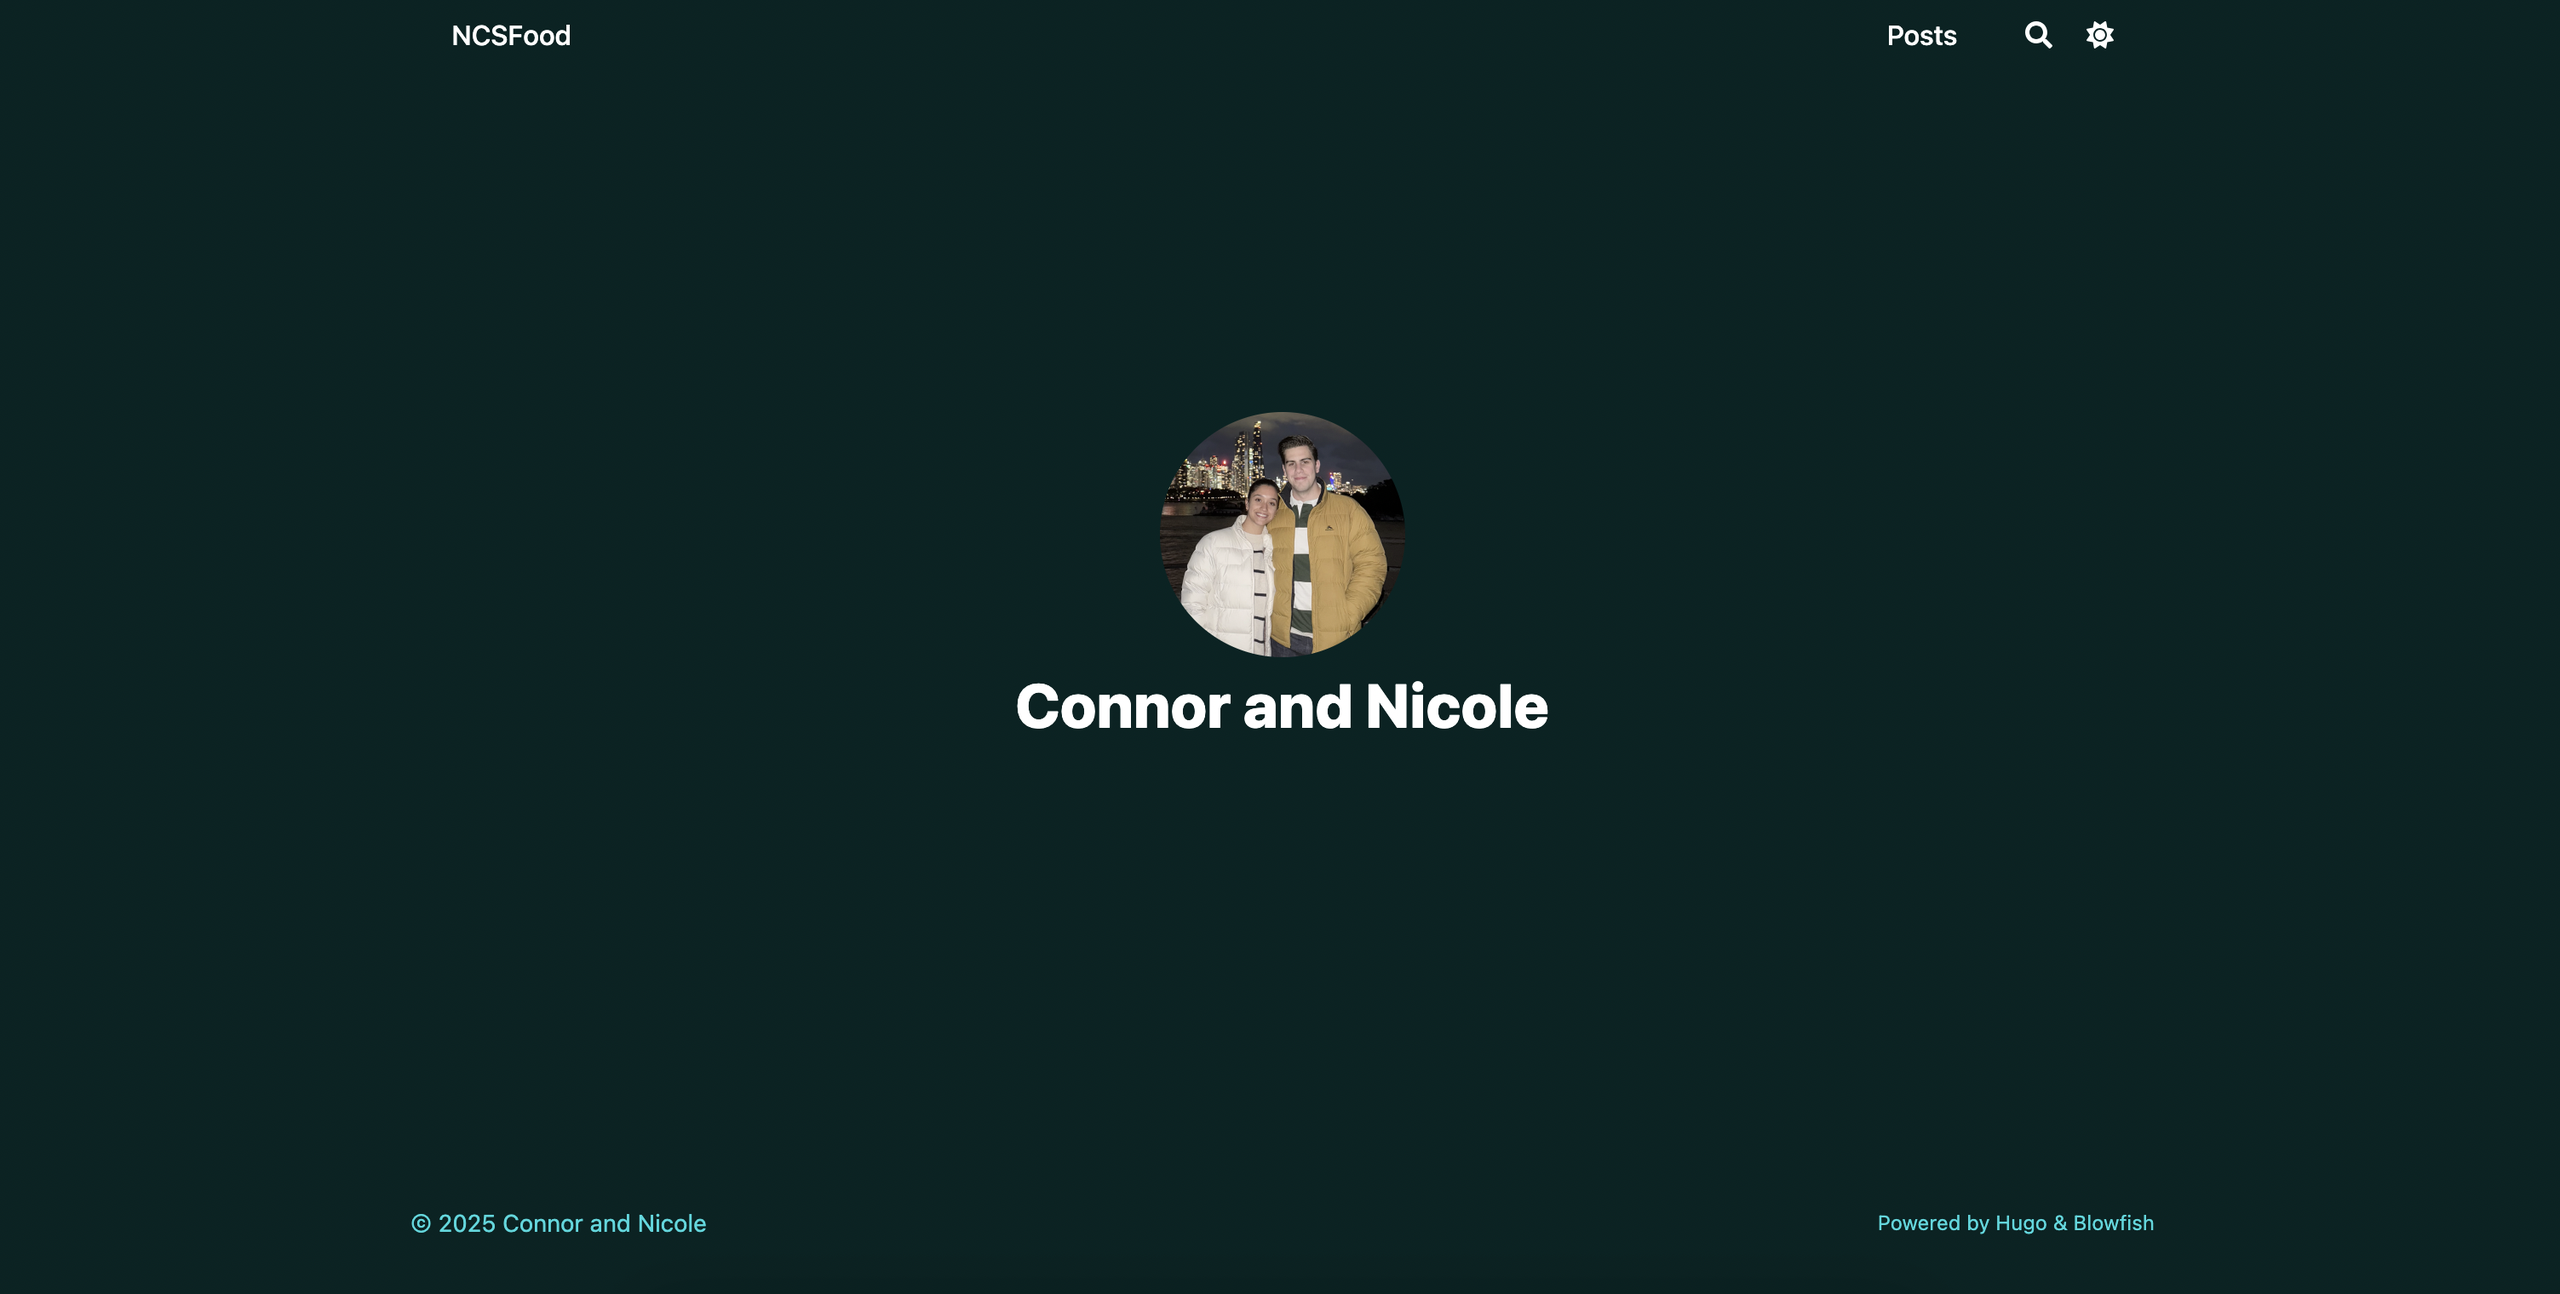
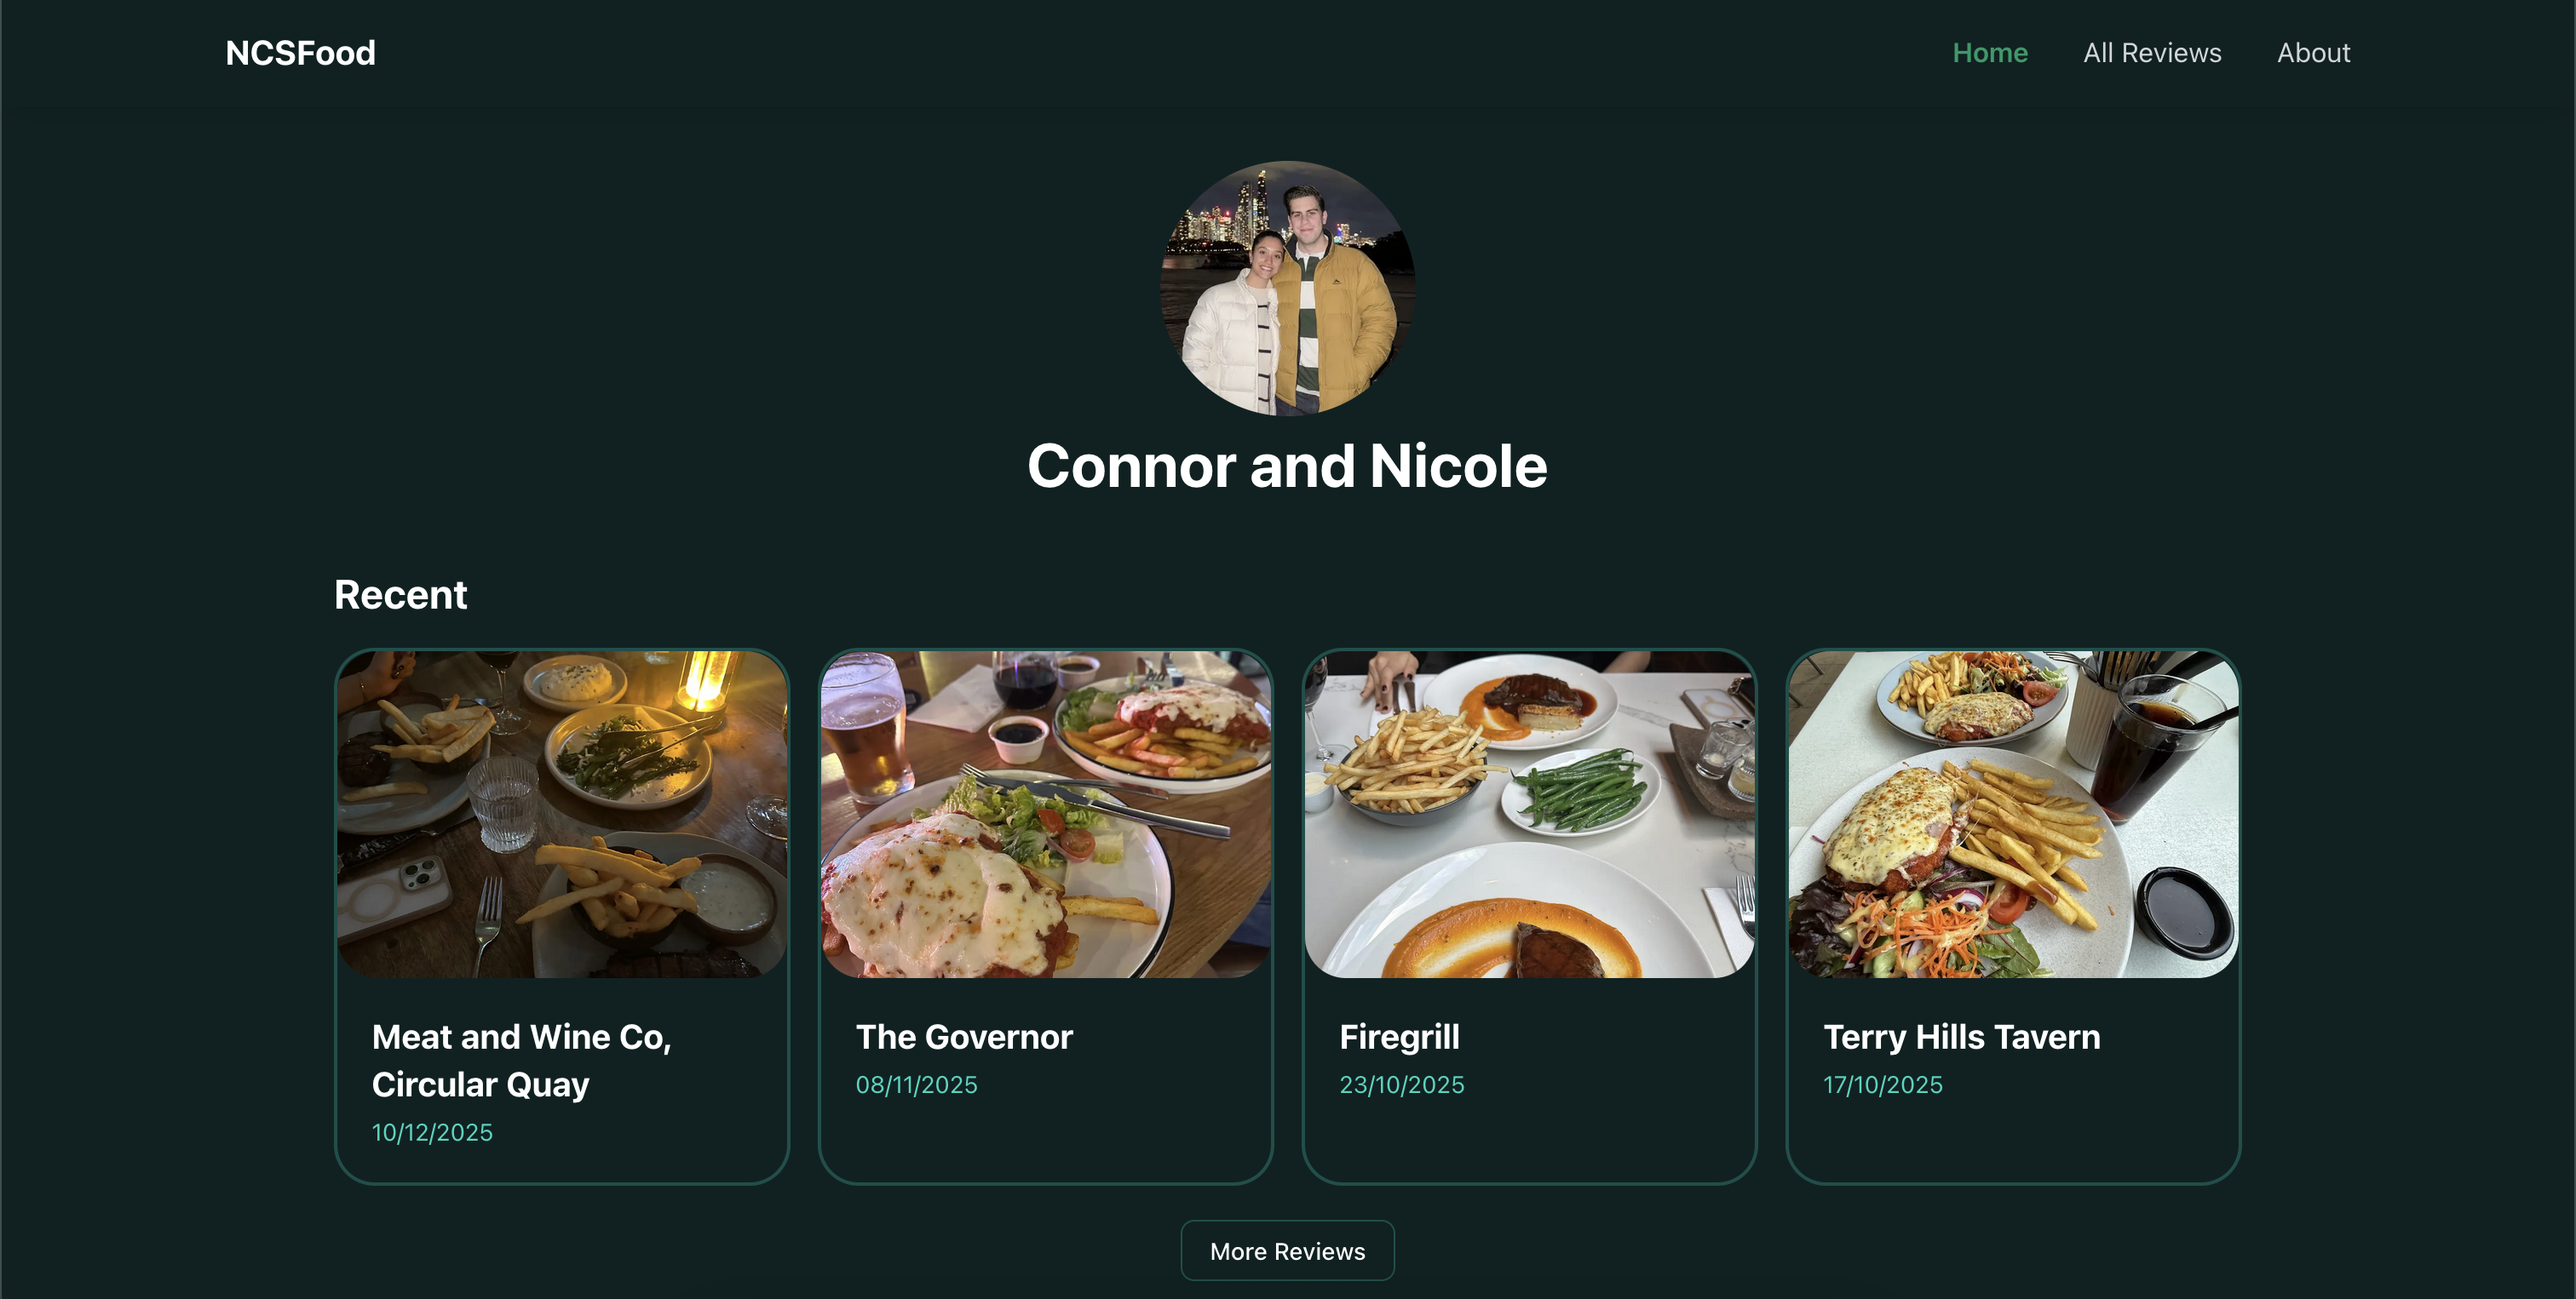
edited NCSFood project tab to reflect recent development

diff --git a/content/docs/projects/ncs-food/_index.md b/content/docs/projects/ncs-food/_index.md
@@ -18,7 +18,7 @@ social media account for our friends and family to see and interact with.
 
 I modify and post these reviews to a website called NCSFood that I maintain.
 
-The website in question is a simple static site developed with a HUGO theme
+The website in question is a simple site developed using Next.js and Supabase
 that stores all of our reviews so that they become searchable and publicly accessible.
 
 [Link to Website](https://conman7x.github.io/NCSFood)
@@ -29,4 +29,4 @@ While this project is mainly a passion project where I get to share my love
 of certain foods and restaurants, it has also helped me further develop my skills.
 Specifically with Git, Github, and static site development/hosting.
 
-_Technology Utilised: Hugo, Markdown, Github_
+_Technology Utilised: Typescript, React, Next.js, Supabase, Github_
